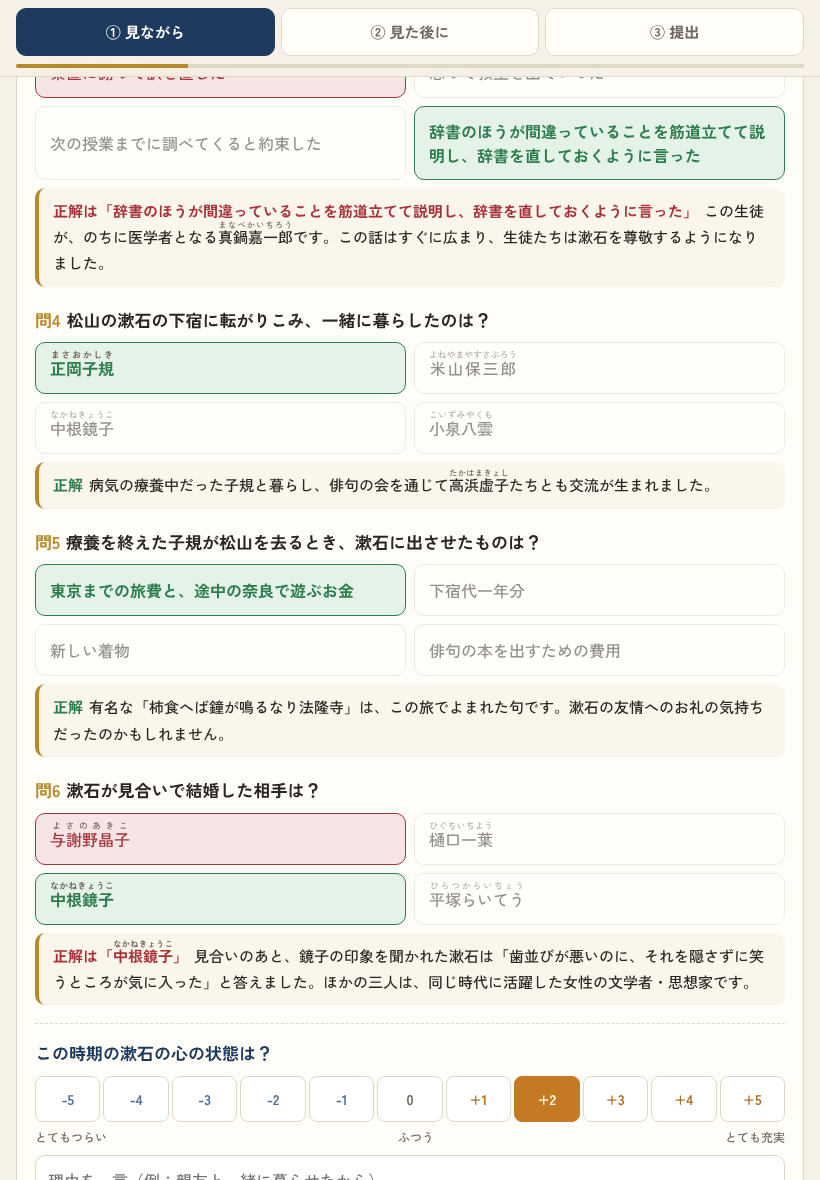
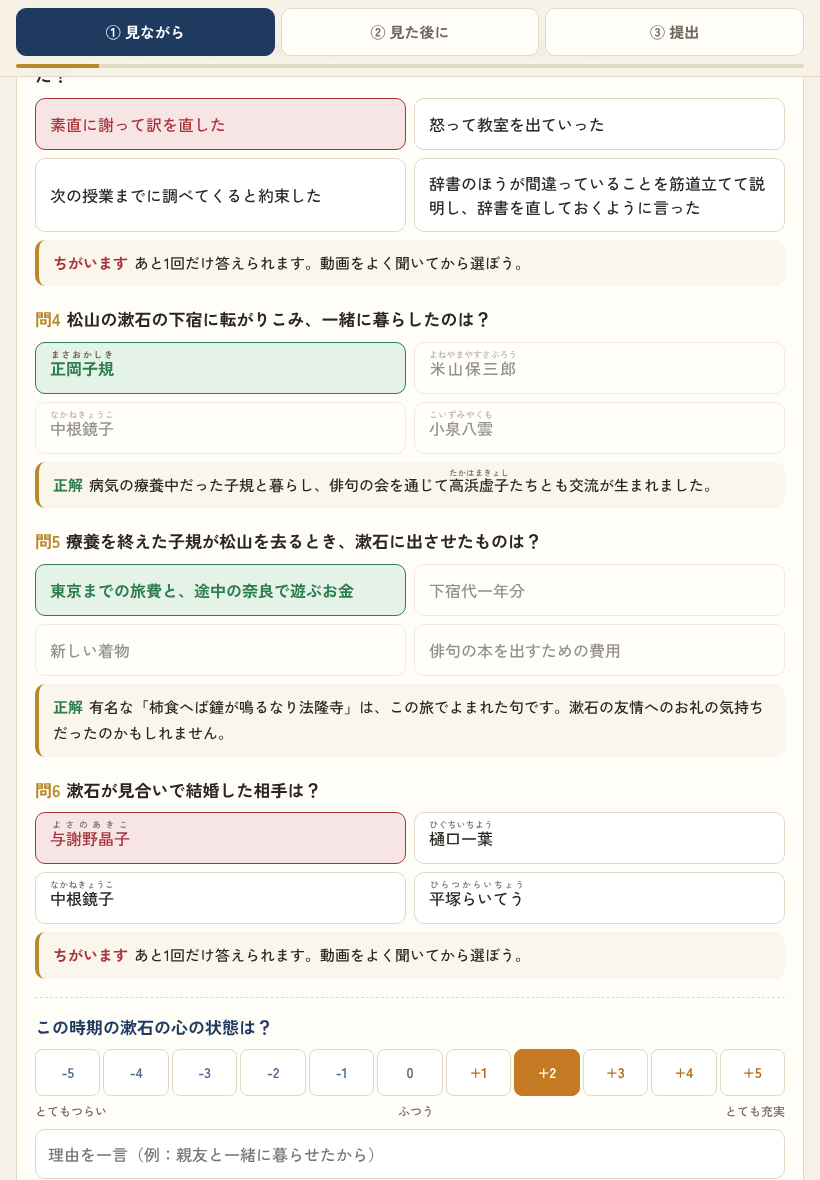
視聴ワーク：まちがえたら1回だけ答え直せるように（正解は2回目のあとに表示。まとめは○△×）。基本コースはやめて全問コースに一本化
Claude-Session: https://claude.ai/code/session_01WM2jdZUthiEr1RLJLs6qj2

diff --git a/soseki.html b/soseki.html
@@ -137,7 +137,7 @@ pre.out{white-space:pre-wrap;word-break:break-all;background:#fff;border:1px sol
 
 <main class="wrap">
   <section class="pane on" id="pane-watch">
-    <p class="note">一章ずつ、聞き取り問題に答えます。<b>答えは一回だけ。動画で聞いてから押そう。</b>上の番号で、どの章にも移れます。2章からは、その時期の漱石の<b>心の状態</b>を −5〜+5 で選び、理由を一言書きます（正解はありません）。</p>
+    <p class="note">一章ずつ、聞き取り問題に答えます。<b>まちがえたら、あと1回だけ答え直せます</b>（正解は2回目のあとに出ます）。上の番号で、どの章にも移れます。2章からは、その時期の漱石の<b>心の状態</b>を −5〜+5 で選び、理由を一言書きます（正解はありません）。</p>
     <div class="chNav" id="chNav"></div>
     <div id="chapters"></div>
     <div class="pager next"><button class="big sub" id="prevCh">← 前の章</button><button class="big" id="nextCh">次の章 →</button></div>
@@ -360,8 +360,9 @@ const EPISODES = [
 ];
 
 const KEY = "soseki_work_v2";
-let S = {kumi:"",ban:"",name:"",ans:{},mood:{},why:{},yume:null,yumeChips:[],yumeGuess:"",ep:null,epOther:"",epWhy:"",moreA:"",moreB:"",tab:"watch",ch:1};
+let S = {kumi:"",ban:"",name:"",ans:{},ans2:{},mood:{},why:{},yume:null,yumeChips:[],yumeGuess:"",ep:null,epOther:"",epWhy:"",moreA:"",moreB:"",tab:"watch",ch:1};
 try{ const s = JSON.parse(localStorage.getItem(KEY)||"null"); if(s) S = Object.assign(S, s); }catch(e){}
+S.ans2 = S.ans2 || {};
 function save(){ try{ localStorage.setItem(KEY, JSON.stringify(S)); }catch(e){} }
 
 const $ = id => document.getElementById(id);
@@ -398,8 +399,11 @@ function buildChapters(){
   root.querySelectorAll(".q").forEach(el => {
     const k = el.dataset.k;
     el.querySelectorAll(".choices button").forEach(b => b.addEventListener("click", () => {
-      if (S.ans[k] !== undefined) return;
-      S.ans[k] = +b.dataset.j; save(); paintQ(el); updateProg();
+      const j = +b.dataset.j;
+      if (S.ans[k] === undefined) S.ans[k] = j;
+      else if (stateOf(k) === "retry" && j !== S.ans[k]) S.ans2[k] = j;
+      else return;
+      save(); paintQ(el); updateProg();
     }));
     paintQ(el);
   });
@@ -415,17 +419,38 @@ function buildChapters(){
   });
 }
 function qOf(k){ const [c,i]=k.split("-").map(Number); return CHAPTERS.find(x=>x.no===c).qs[i]; }
+// 1回目で正解 o／2回目で正解 t／2回とも不正解 x／1回まちがえて答え直し待ち retry／未回答 none
+function stateOf(k){
+  const q = qOf(k), a1 = S.ans[k], a2 = S.ans2[k];
+  if (a1 === undefined) return "none";
+  if (a1 === q.a) return "o";
+  if (a2 === undefined) return "retry";
+  return a2 === q.a ? "t" : "x";
+}
 function paintQ(el){
-  const k = el.dataset.k, q = qOf(k), my = S.ans[k];
-  if (my === undefined) return;
+  const k = el.dataset.k, q = qOf(k), st = stateOf(k), a1 = S.ans[k], a2 = S.ans2[k];
+  if (st === "none") return;
+  const fb = el.querySelector(".fb");
+  if (st === "retry"){
+    el.querySelectorAll(".choices button").forEach(b => {
+      const j = +b.dataset.j;
+      b.disabled = j===a1;
+      b.classList.toggle("wrong", j===a1);
+    });
+    fb.innerHTML = `<span class="mark x">ちがいます</span>あと1回だけ答えられます。動画をよく聞いてから選ぼう。`;
+    fb.classList.add("show");
+    return;
+  }
   el.querySelectorAll(".choices button").forEach(b => {
     const j = +b.dataset.j; b.disabled = true;
     b.classList.toggle("right", j===q.a);
-    b.classList.toggle("wrong", j===my && j!==q.a);
-    b.classList.toggle("dim", j!==q.a && j!==my);
+    b.classList.toggle("wrong", (j===a1 || j===a2) && j!==q.a);
+    b.classList.toggle("dim", j!==q.a && j!==a1 && j!==a2);
   });
-  const fb = el.querySelector(".fb");
-  fb.innerHTML = (my===q.a ? `<span class="mark o">正解</span>` : `<span class="mark x">正解は${/^『/.test(q.c[q.a]) ? q.c[q.a] : "「"+q.c[q.a]+"」"}</span>`) + q.n;
+  const head = st==="o" ? `<span class="mark o">正解</span>`
+             : st==="t" ? `<span class="mark o">2回目で正解</span>`
+             : `<span class="mark x">正解は${/^『/.test(q.c[q.a]) ? q.c[q.a] : "「"+q.c[q.a]+"」"}</span>`;
+  fb.innerHTML = head + q.n;
   fb.classList.add("show");
 }
 function paintMood(el){
@@ -513,18 +538,21 @@ function bindText(id){
 }
 
 function score(){
-  let ok=0, done=0;
-  CHAPTERS.forEach(c=>c.qs.forEach((q,i)=>{ const m=S.ans[c.no+"-"+i]; if(m!==undefined){done++; if(m===q.a) ok++;} }));
-  return {ok, done};
+  const n = {o:0, t:0, x:0, retry:0, none:0};
+  CHAPTERS.forEach(c=>c.qs.forEach((q,i)=>n[stateOf(c.no+"-"+i)]++));
+  n.done = n.o + n.t + n.x;
+  return n;
 }
 function buildOut(){
   const sc = score(), L = [];
   L.push("【夏目漱石の生涯　視聴ワーク】");
   L.push(`${S.kumi||"　"}組 ${S.ban||"　"}番　${S.name||"（氏名未入力）"}`);
   L.push("");
-  L.push(`■ 聞き取り問題　${sc.ok} / ${totalQ} 問正解（解答 ${sc.done} 問）`);
+  L.push(`■ 聞き取り問題（全${totalQ}問）　○ ${sc.o}問　△ ${sc.t}問　× ${sc.x + sc.retry}問　未回答 ${sc.none}問`);
+  L.push("　（○…1回目で正解　△…2回目で正解　×…不正解　－…未回答）");
+  const MARK = {o:"○", t:"△", x:"×", retry:"×", none:"－"};
   CHAPTERS.forEach(c => {
-    const marks = c.qs.map((q,i)=>{ const m=S.ans[c.no+"-"+i]; return m===undefined?"－":(m===q.a?"○":"×"); }).join("");
+    const marks = c.qs.map((q,i)=>MARK[stateOf(c.no+"-"+i)]).join("");
     L.push(`　第${c.no}章 ${c.title}：${marks}`);
   });
   L.push("");
@@ -590,7 +618,7 @@ function updateProg(){
   paintChNav();
 }
 function chDone(ch){
-  return ch.qs.every((q,i)=>S.ans[ch.no+"-"+i]!==undefined) && (!ch.mood || S.mood[ch.no]!==undefined);
+  return ch.qs.every((q,i)=>["o","t","x"].includes(stateOf(ch.no+"-"+i))) && (!ch.mood || S.mood[ch.no]!==undefined);
 }
 function paintChNav(){
   document.querySelectorAll(".chNav button").forEach(b => {
